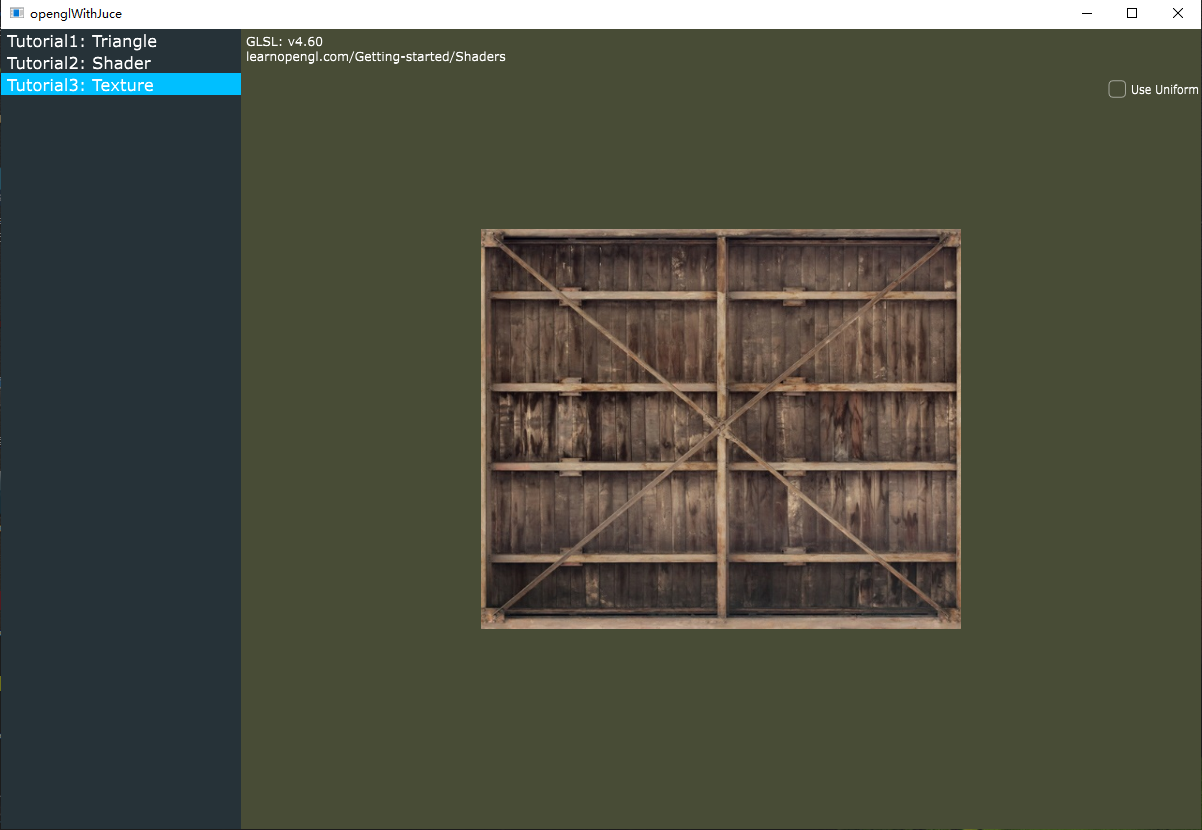
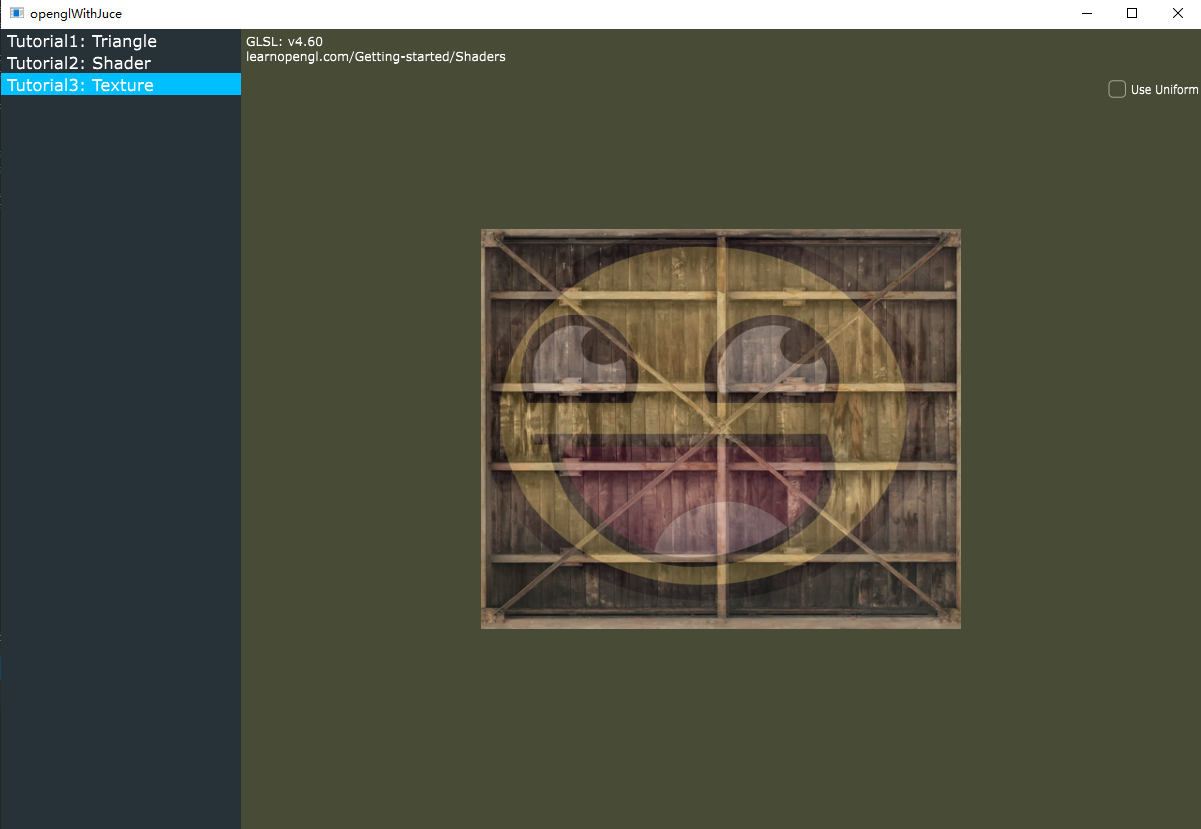
multi texture done!

diff --git a/Source/Tutorial3.h b/Source/Tutorial3.h
@@ -12,10 +12,11 @@ struct UniformsTutorial3
 	UniformsTutorial3(OpenGLContext& openGLContext, OpenGLShaderProgram& shader)
 	{
 		ourColor = createUniform(openGLContext, shader, "uniformColor");
-		ourTexture = createUniform(openGLContext, shader, "ourTexture");
+		ourTextureBox = createUniform(openGLContext, shader, "ourTextureBox");
+		ourTextureFace = createUniform(openGLContext, shader, "ourTextureFace");
 	}
 
-	ScopedPointer<OpenGLShaderProgram::Uniform> ourColor{ nullptr }, ourTexture{ nullptr };
+	ScopedPointer<OpenGLShaderProgram::Uniform> ourColor{ nullptr }, ourTextureBox{ nullptr }, ourTextureFace{ nullptr };
 
 
 private:
@@ -52,11 +53,12 @@ public:
 
 
 
-	void init(String texturePath)
+	void init(String BoxPath, String awsomeFacePath)
 	{
-		_pTexture = TextureCache::getTexture(texturePath);
+		_pTextureBox = TextureCache::getTexture(BoxPath);
+		_pTextureFace = TextureCache::getTexture(awsomeFacePath);
 		
-		if (_pTexture == nullptr)
+		if (!_pTextureBox || !_pTextureFace)
 		{
 			return;
 		}
@@ -110,10 +112,19 @@ public:
 	void draw()
 	{
 		_openGLContext.extensions.glActiveTexture(GL_TEXTURE0);
-		if(_pTexture)
-			_pTexture->bind();
-		if (_uniforms->ourTexture)
-			_uniforms->ourTexture->set(0);
+		if(_pTextureBox)
+			_pTextureBox->bind();
+		else return;
+
+		_openGLContext.extensions.glActiveTexture(GL_TEXTURE1);
+		if (_pTextureFace)
+			_pTextureFace->bind();
+		else return;
+
+		if (_uniforms->ourTextureBox)
+			_uniforms->ourTextureBox->set(0);
+		if (_uniforms->ourTextureFace)
+			_uniforms->ourTextureFace->set(1);
 
 
 		_openGLContext.extensions.glBindVertexArray(VAO); // seeing as we only have a single VAO there's no need to bind it every time, but we'll do so to keep things a bit more organized
@@ -135,7 +146,7 @@ public:
 	OpenGLContext& _openGLContext;
 
 	bool& _useUniform;
-	OpenGLTexture* _pTexture{ nullptr };
+	OpenGLTexture* _pTextureBox{ nullptr }, *_pTextureFace{ nullptr };
 
 	std::unique_ptr<UniformsTutorial3> _uniforms;
 
@@ -180,8 +191,9 @@ public:
 		_shaderProgram.reset(new ShaderProgram(openGLContext, vertexFile.getFullPathName(), fragmentFile.getFullPathName()));
 
 		auto textureBoxFile = f.getParentDirectory().getParentDirectory().getChildFile("Resource").getChildFile("container.jpg").getFullPathName();
+		auto textureAwsomeFace = f.getParentDirectory().getParentDirectory().getChildFile("Resource").getChildFile("awesomeface.png").getFullPathName();
 
-		_sprite.init(textureBoxFile);
+		_sprite.init(textureBoxFile, textureAwsomeFace);
 	}
 	void shutdown() override
 	{

diff --git a/Source/Shader/fragmentT3.h b/Source/Shader/fragmentT3.h
@@ -1,7 +1,8 @@
 out vec4 FragColor;
 
 uniform vec4 uniformColor;
-uniform sampler2D ourTexture;
+uniform sampler2D ourTextureBox;
+uniform sampler2D ourTextureFace;
 
 in vec3 ourColor;
 in vec2 ourTexCoord;
@@ -10,7 +11,9 @@ void main()
 {
 
 	//FragColor = vec4(ourColor.r, ourColor.g, ourColor.b, 1.0) + uniformColor;
-	FragColor = texture(ourTexture, ourTexCoord);
+	//FragColor = texture(ourTextureBox, ourTexCoord);
+
+	FragColor = mix(texture(ourTextureBox, ourTexCoord), texture(ourTextureFace, ourTexCoord), 0.2);
 }
 
 

diff --git a/Source/TextureCache.h b/Source/TextureCache.h
@@ -39,7 +39,6 @@ public:
 		if (mit == getTextureMap().end()) {
 			File f = texturePath;
 			
-
 			if (!f.existsAsFile())
 			{
 				AlertWindow::showMessageBox(AlertWindow::AlertIconType::InfoIcon, "Error Texture Path", texturePath);
